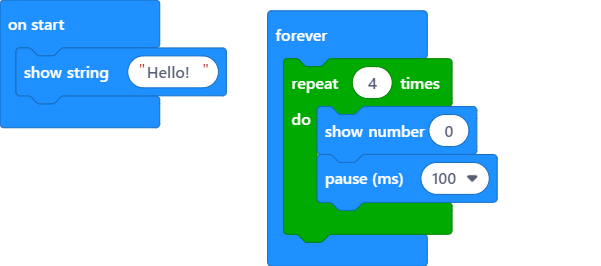
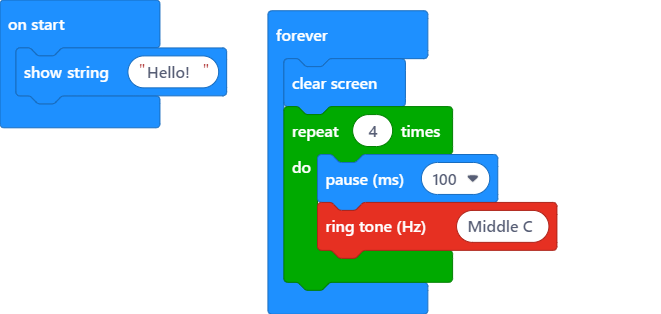
Update main.blocks, main.ts

diff --git a/main.ts b/main.ts
@@ -1,7 +1,8 @@
 basic.showString("Hello!")
 basic.forever(function () {
+    basic.clearScreen()
     for (let index = 0; index < 4; index++) {
-        basic.showNumber(0)
         basic.pause(100)
+        music.ringTone(262)
     }
 })
